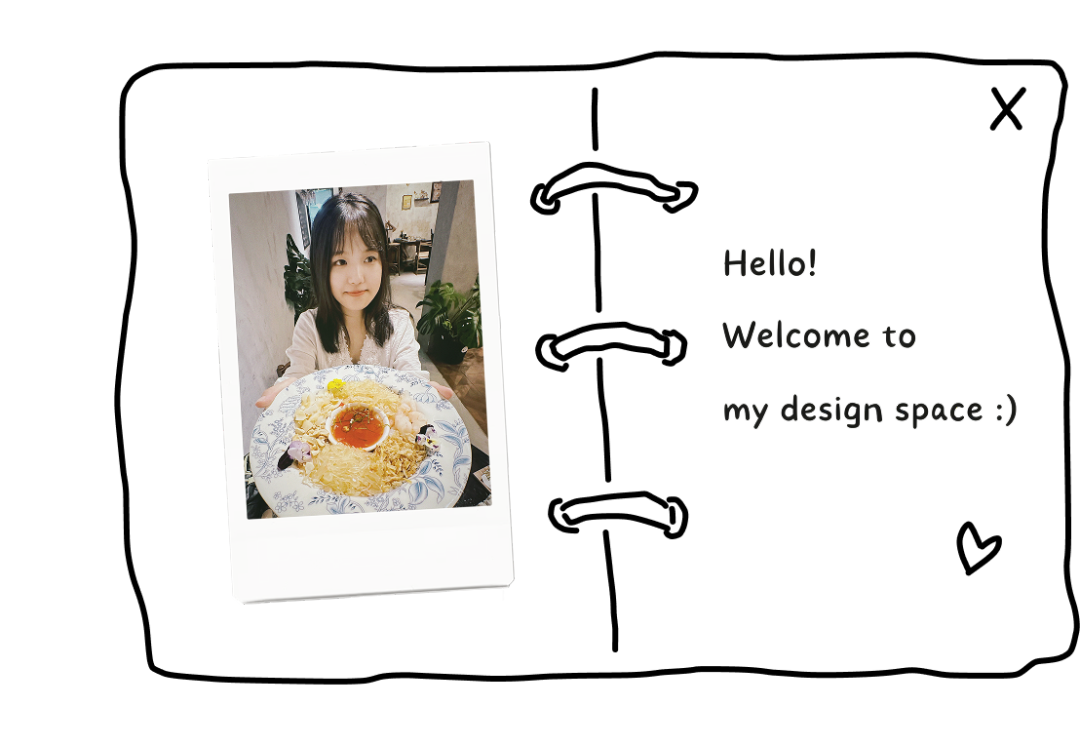
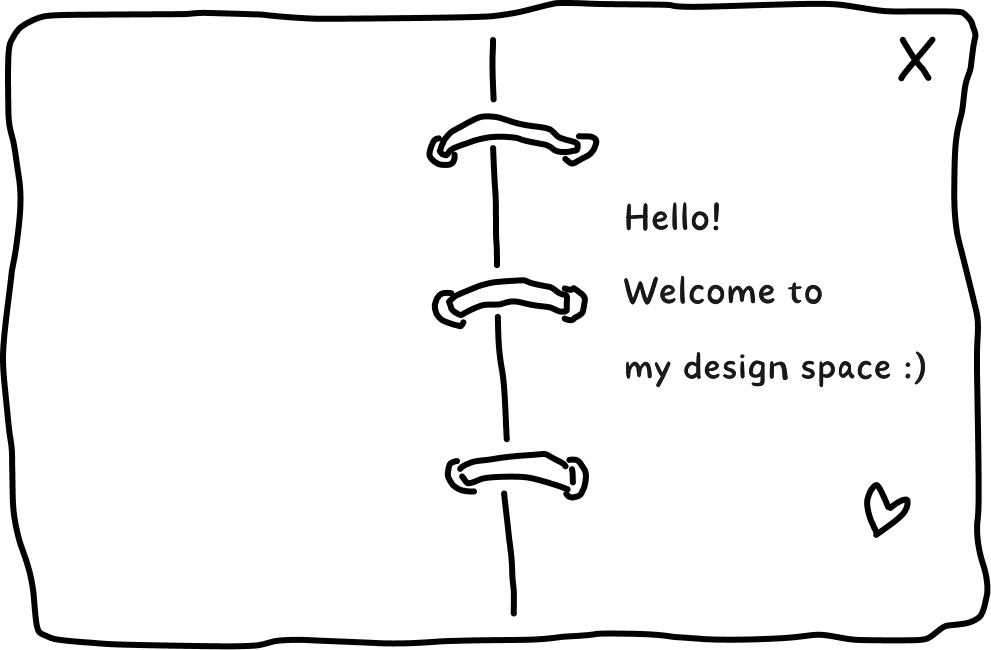
feat: 弹窗拍立得抽牌式切换（新底图+4张照片）、气泡锚定猫左上、简历模块间距收紧

diff --git a/script.js b/script.js
@@ -190,3 +190,63 @@ if (helloModal) {
     }
   });
 }
+
+
+const polaroid = document.querySelector("[data-polaroid]");
+const polaroidCards = Array.from(document.querySelectorAll("[data-polaroid-card]"));
+const POLAROID_PHOTOS = [
+  "./assets/contact/photo-1.png",
+  "./assets/contact/photo-2.png",
+  "./assets/contact/photo-3.png",
+  "./assets/contact/photo-4.png",
+];
+let polaroidIndex = 0;
+let polaroidBusy = false;
+
+if (polaroid && polaroidCards.length === 2) {
+  const CARD_OUT = "transform 0.6s cubic-bezier(0.32, 0.72, 0.28, 1), opacity 0.55s ease";
+  const CARD_IN = "transform 0.62s cubic-bezier(0.22, 1, 0.36, 1), opacity 0.44s ease";
+  const CARD_AWAY = "translateX(56%) rotate(7deg) scale(0.95)";
+
+  let frontIndex = 0;
+
+  polaroidCards[0].style.zIndex = "2";
+  polaroidCards[1].style.zIndex = "1";
+  polaroidCards[1].style.opacity = "0";
+
+  polaroid.addEventListener("click", () => {
+    if (polaroidBusy) return;
+    polaroidBusy = true;
+
+    const front = polaroidCards[frontIndex];
+    const next = polaroidCards[1 - frontIndex];
+
+    polaroidIndex = (polaroidIndex + 1) % POLAROID_PHOTOS.length;
+    next.src = POLAROID_PHOTOS[polaroidIndex];
+
+    next.style.transition = "none";
+    next.style.transform = CARD_AWAY;
+    next.style.opacity = "0";
+    next.style.zIndex = "3";
+    front.style.zIndex = "2";
+
+    requestAnimationFrame(() => {
+      next.style.transition = CARD_IN;
+      next.style.transform = "translateX(0) rotate(0deg) scale(1)";
+      next.style.opacity = "1";
+
+      front.style.transition = CARD_OUT;
+      front.style.transform = "translateX(-122%) rotate(-11deg) scale(0.93)";
+      front.style.opacity = "0";
+    });
+
+    window.setTimeout(() => {
+      front.style.transition = "none";
+      front.style.transform = CARD_AWAY;
+      front.style.opacity = "0";
+      front.style.zIndex = "1";
+      frontIndex = 1 - frontIndex;
+      polaroidBusy = false;
+    }, 620);
+  });
+}

diff --git a/index.html b/index.html
@@ -8,7 +8,7 @@
     <link rel="icon" type="image/png" sizes="32x32" href="./assets/favicon-32.png?v=1" />
     <link rel="icon" type="image/png" sizes="48x48" href="./assets/favicon-48.png?v=1" />
     <link rel="apple-touch-icon" href="./assets/apple-touch-icon.png?v=1" />
-    <link rel="stylesheet" href="./styles.css?v=20260910" />
+    <link rel="stylesheet" href="./styles.css?v=20260911" />
   </head>
   <body>
     <main class="stage" aria-live="polite">
@@ -162,11 +162,15 @@
     <div class="hello-modal" data-hello-modal hidden>
       <div class="hello-modal-card">
         <img class="hello-modal-img" src="./assets/contact/hello-popup.png" alt="Hello! Welcome to my design space :)" />
+        <button class="polaroid" type="button" data-polaroid aria-label="切换照片">
+          <img class="polaroid-card" data-polaroid-card="0" src="./assets/contact/photo-1.png" alt="" />
+          <img class="polaroid-card" data-polaroid-card="1" src="./assets/contact/photo-2.png" alt="" />
+        </button>
         <span class="hello-sparkle" aria-hidden="true">✨</span>
         <button class="hello-modal-close" type="button" data-hello-close aria-label="关闭弹窗"></button>
       </div>
     </div>
 
-    <script src="./script.js?v=20260910"></script>
+    <script src="./script.js?v=20260911"></script>
   </body>
 </html>

diff --git a/styles.css b/styles.css
@@ -412,7 +412,7 @@ h1 {
 
 .resume-sections {
   display: grid;
-  gap: clamp(46px, 6vh, 66px);
+  gap: clamp(24px, 3.2vh, 38px);
   width: min(760px, 48vw);
   padding-top: 0;
 }
@@ -1439,6 +1439,39 @@ h2 {
   width: 100%;
   height: auto;
   user-select: none;
+}
+
+.polaroid {
+  position: absolute;
+  left: 8%;
+  top: 15%;
+  width: 30%;
+  aspect-ratio: 326 / 486;
+  border: 0;
+  padding: 0;
+  background: transparent;
+  cursor: pointer;
+  transition: transform 0.24s ease;
+}
+
+.polaroid:hover {
+  transform: scale(1.02);
+}
+
+.polaroid:focus-visible {
+  outline: 2px dashed #1a1a1a;
+  outline-offset: 4px;
+}
+
+.polaroid-card {
+  position: absolute;
+  top: 0;
+  left: 0;
+  width: 100%;
+  height: auto;
+  user-select: none;
+  -webkit-user-drag: none;
+  will-change: transform, opacity;
 }
 
 .hello-sparkle {
